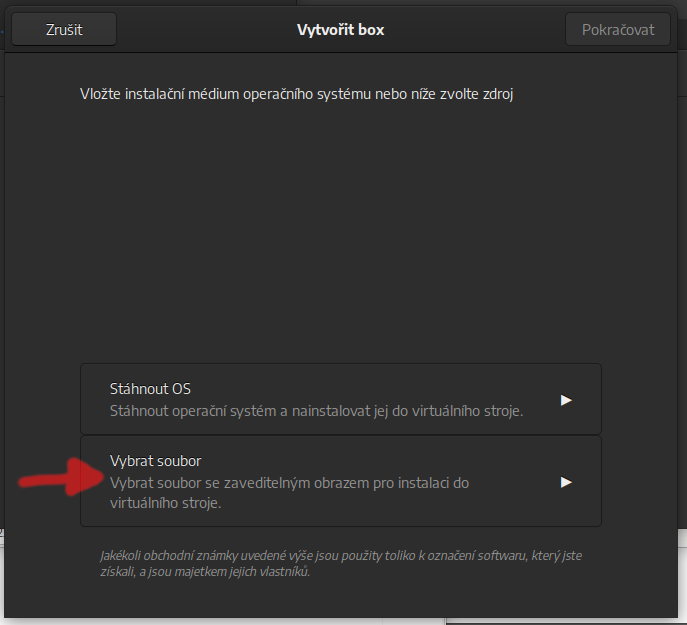
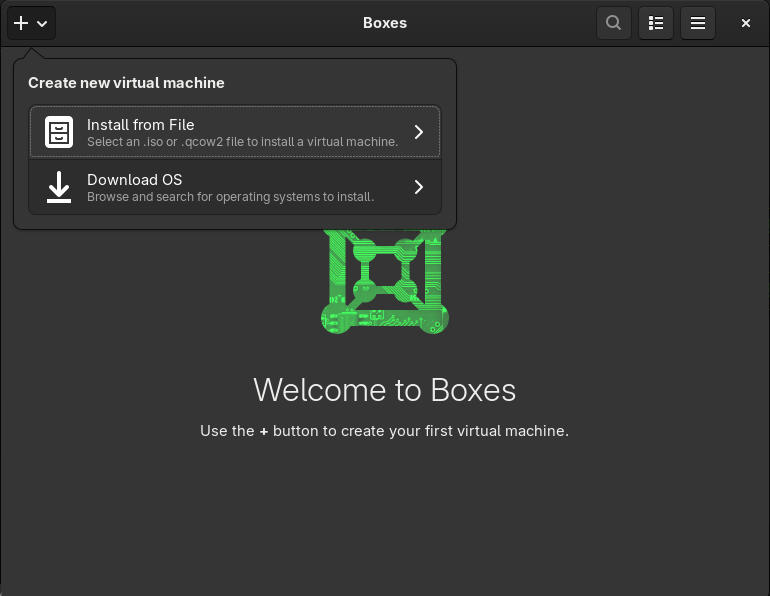
Úprava instalace virtuálky
Aktualizace materiálů pro Fedoru 42. Instalátor je dost odlišný.

diff --git a/lessons/linuxadmin/installation/index.md b/lessons/linuxadmin/installation/index.md
@@ -30,14 +30,14 @@ Pro jednotnost si budeme všechno ukazovat na distribuci Fedora, kterou
 si stáhni z [getfedora.org](https://getfedora.org/cs/workstation/download) –
 stáhnout soubor ISO.
 
-Je to velký soubor (zhruba 2 GB) s názvem `Fedora-Workstation-Live-x86_64-39-1.5.iso`.
+Je to velký soubor (zhruba 2 GB) s názvem `Fedora-Workstation-Live-42-1.1.x86_64.iso`.
 
 ### Poznámka pro uživatele macOS
 
 Pokud máš macOS a nevíš, jestli máš procesor Intel, přečti si nejdříve [Jak poznat který procesor máš]({{ subpage_url('apple-silicon#jak-poznat-ktery-procesor-mas') }}) a poté se vrať zpět sem.
 Jestli máš procesor od Apple řady M, pak si budeš muset stáhnout obraz pro systémy ARM aarch64.
 
-Tedy něco jako `Fedora-Workstation-Live-aarch64-39-1.5-respin.iso`.
+Tedy něco jako `Fedora-Workstation-Live-42-1.1.aarch64.iso`.
 
 
 # Příprava hosta
@@ -65,7 +65,7 @@ soubory potřebné k samotné instalaci.
 ) }}
 
 V černém okně vyber šipkami na klávesnici (myš zatím nelze použít)
-**Start Fedora-Workstation-Live 39** a potvrď klávesou Enter. 
+**Start Fedora-Workstation-Live 42** a potvrď klávesou Enter.
 
 {{ figure(
     img=static('fedora-install-02.png'),
@@ -77,7 +77,7 @@ operační systém rovnou z DVD k vyzkoušení - tu ale nyní nevyužijeme).
 
 ## Instalační obrazovky
 
-* **Výběr jazyka** - V levém panelu vyber *Čeština*, poté klepni na *Pokračovat*.
+* **Výběr jazyka** - V poli jazyk hledej cz a následně vyber možnost *Čeština*.
   (Můžeš vybrat i jiný jazyk, ale tyto materiály budou v češtině.)
 
   {{ figure(
@@ -85,44 +85,68 @@ operační systém rovnou z DVD k vyzkoušení - tu ale nyní nevyužijeme).
     alt='Instalace #3',
   ) }}
 
-
-* **Přehled instalace** - Instalátor potřebuje potvrdit, kde se bude instalace
-  provádět. Klepni na *Cíl instalace*, která ti nabídne dostupné pevné disky.
+Ve stejném okně si vyber rozložení klávesnice, pokud nepoužíváš *us* klávesnici.
+Klikni na **Add Input Source**.
 
   {{ figure(
     img=static('fedora-install-04.png'),
     alt='Instalace #4',
   ) }}
 
-
-* **Cíl instalace** - U virtuálního počítače je situace jednoduchá, není tu
-  potřeba nic měnit.
-  Vlevo nahoře najdeš tlačítko *Hotovo*, kterým obrazovku potvrdíš.
+Podobně jako u výběru jazyku vyhledej preferovanou českou klávesnici.
 
   {{ figure(
     img=static('fedora-install-05.png'),
     alt='Instalace #5',
- ) }}
+  ) }}
 
+Následně odstraň anglickou klávesnici kliknutím na 3 tečky vpravo a vyber
+*Remove*.
 
-* **Přehled instalace** - Nyní už instalátor ví vše potřebné. Vpravo dole
- klepni na tlačítko *Zahájit instalaci*. Od tohoto okamžiku se začne
- zapisovat na vybraný pevný disk.
- 
   {{ figure(
     img=static('fedora-install-06.png'),
     alt='Instalace #6',
   ) }}
 
+* **Cíl instalace** - U virtuálního počítače je situace jednoduchá, není tu
+  potřeba nic měnit.
+  Pokračuj kliknutím na tlačítko *Další*.
 
-* **Průběh instalace** - tento krok bude trvat nejdéle. V závislosti na
- rychlosti tvého počítače to může být od pár minut po malé desítky minut.
- Nakonec se vpravo dole objeví tlačítko *Dokončit instalaci*. Tím dojde k 
- uzavření instalačního programu a je třeba provést restart.
- 
   {{ figure(
     img=static('fedora-install-07.png'),
     alt='Instalace #7',
+  ) }}
+
+* **Uspořádání úložiště** - Máme možnost nastavit šifrování disku.
+  My na virtuálním počítači nebudeme mít žádné důležité data a není nutné jej
+  šifrovat. V jiném případě ale silně doporučuji disk zašifrovat.
+  Pokračuj kliknutím na tlačítko *Další*.
+
+  {{ figure(
+    img=static('fedora-install-08.png'),
+    alt='Instalace #8',
+  ) }}
+
+
+* **Zkontrolovat a nainstalovat** - Nyní už instalátor ví vše potřebné. Dole
+ klepni na tlačítko *Vymazat data a nainstalovat*. Od tohoto okamžiku se začne
+ zapisovat na vybraný pevný disk.
+ 
+  {{ figure(
+    img=static('fedora-install-09.png'),
+    alt='Instalace #9',
+  ) }}
+
+
+* **Průběh instalace** - tento krok bude trvat nejdéle. V závislosti na
+ rychlosti tvého počítače to může být od pár minut po malé desítky minut.
+ Nakonec se objeví nápis **Úspěšně nainstalováno**. Vyber *Ukončit a přejít do
+ systému spouštěného přímo z instalačního média*. Tím dojde k
+ uzavření instalačního programu a je třeba provést restart.
+ 
+  {{ figure(
+    img=static('fedora-install-10.png'),
+    alt='Instalace #10',
   ) }}
 
 * **Vypnutí** - K tomu je potřeba kliknout na sadu ikonek úplně vpravo nahoře,
@@ -171,11 +195,18 @@ V této části už je operační systém nainstalovaný,
  zbývá akorát provést posledních několik nastavení. To se děje formou průvodce,
  kde je vždy vpravo nahoře tlačítko *Další*.
 
-* **Vítejte v prostředí Fedora Linux 39!** - klikni na "Začít nastavovat".
+* **Vítejte** - ponech volbu "Čeština".
 
   {{ figure(
-    img=static('fedora-install-09.png'),
-    alt='Instalace #09',
+    img=static('fedora-install-11.png'),
+    alt='Instalace #11',
+  ) }}
+
+* **Psaní** - ponech nastavenou klávesnici.
+
+  {{ figure(
+    img=static('fedora-install-12.png'),
+    alt='Instalace #12',
   ) }}
 
 * **Soukromí**
@@ -184,22 +215,23 @@ V této části už je operační systém nainstalovaný,
     neplechu na virtuálním počítači napácháš
 
   {{ figure(
-    img=static('fedora-install-10.png'),
-    alt='Instalace #10',
+    img=static('fedora-install-13.png'),
+    alt='Instalace #13',
   ) }}
 
-* **Repozitáře třetích stran** - repozitáře není nutné povolovat, nebudeme je využívat.
+* **Časové pásmo** - vyhledej město podle kterého ti přiřadí časové pásmo.
 
   {{ figure(
-    img=static('fedora-install-11.png'),
-    alt='Instalace #11',
+    img=static('fedora-install-14.png'),
+    alt='Instalace #14',
   ) }}
-  
-* **Účty online** - tento krok můžeš klidně přeskočit (a třeba provést později)
+
+* **Repozitáře třetích stran** - repozitáře není nutné povolovat, nebudeme je
+  využívat.
 
   {{ figure(
-    img=static('fedora-install-12.png'),
-    alt='Instalace #12',
+    img=static('fedora-install-15.png'),
+    alt='Instalace #15',
   ) }}
 
   
@@ -212,8 +244,8 @@ V této části už je operační systém nainstalovaný,
   k uživatelskému jménu.) Pokračuj tlačítkem *Další*.
 
   {{ figure(
-    img=static('fedora-install-13.png'),
-    alt='Instalace #13',
+    img=static('fedora-install-16.png'),
+    alt='Instalace #16',
   ) }}
 
 
@@ -227,8 +259,8 @@ V této části už je operační systém nainstalovaný,
  Určitě ale nepoužívej heslo, které používáš i jinde!
 
   {{ figure(
-    img=static('fedora-install-14.png'),
-    alt='Instalace #14',
+    img=static('fedora-install-17.png'),
+    alt='Instalace #17',
   ) }}
 
   Heslo si dobře zapamatuj (nebo, navzdory radám k bezpečným heslům, zapiš).
@@ -237,8 +269,8 @@ V této části už je operační systém nainstalovaný,
   pustit do objevování. Klepni na *Začít používat systém Fedora Linux*.
 
   {{ figure(
-    img=static('fedora-install-15.png'),
-    alt='Instalace #15',
+    img=static('fedora-install-18.png'),
+    alt='Instalace #18',
   ) }}
 
 Virtuální počítač můžeš vypnout přes menu v pravém horním rohu obrazovky.

diff --git a/lessons/linuxadmin/installation/gnome-boxes.md b/lessons/linuxadmin/installation/gnome-boxes.md
@@ -35,9 +35,7 @@ Spuštěný program by měl vypadat nějak takto:
 ## Vytvoření virtuálního počítače
 
 V levém horním rohu je tlačítko **+**.
-Klikni na něj a vyber *Vytvořit virtuální stroj* (*Create a Virtual Machine*).
-
-V následujícím okně ignoruj nabídku systémů a zvol *Vybrat soubor*:
+Klikni na něj a vyber *Instalace ze souboru* (*Install from File*).
 
   {{ figure(
     img=static('boxes-02.png'),
@@ -45,7 +43,9 @@ V následujícím okně ignoruj nabídku systémů a zvol *Vybrat soubor*:
   ) }}
 
 Vyber ISO soubor se systémem, který jsi před chvílí stáhl{{a}}.
-V dalším kroku je možnost virtuální počítač přizpůsobit, což není nutné.
+V dalším kroku je možnost virtuální počítač přizpůsobit. Pokud tvůj počítač
+má 8 GB RAM, doporučuji snížit paměť (Memory) na 2 GB. Ostatní ponechej, jak je
+uvedeno.
 Zvol *Vytvořit*:
 
   {{ figure(
